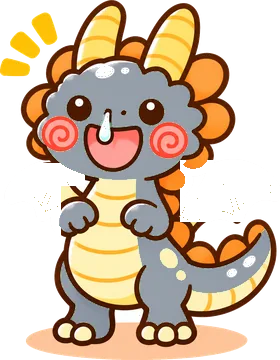
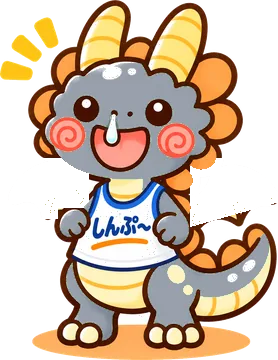
こどもドラゴンを新デザイン（タンクトップ）に (11/16-1)
Claude-Session: https://claude.ai/code/session_01YBiCLs4pTNeStadh86Q8Uo

diff --git a/index.html b/index.html
@@ -242,8 +242,8 @@ details.staff-d .staff-row { background: transparent; }
 .roam.me .tag { background: var(--accent); color: #fff; }
 @keyframes roambob { 0%,100% { transform: translate(-50%, -85%); } 50% { transform: translate(-50%, -92%); } }
 .kid-wing { transform-box: view-box; animation: kidFlap 1.3s ease-in-out infinite; }
-.kid-wl { transform-origin: 68px 97px; }
-.kid-wr { transform-origin: 125px 97px; animation-name: kidFlapR; }
+.kid-wl { transform-origin: 70px 103px; }
+.kid-wr { transform-origin: 130px 106px; animation-name: kidFlapR; }
 @keyframes kidFlap { 0%, 50%, 100% { transform: rotate(0deg); } 20% { transform: rotate(34deg); } 35% { transform: rotate(-12deg); } }
 @keyframes kidFlapR { 0%, 50%, 100% { transform: rotate(0deg); } 20% { transform: rotate(-34deg); } 35% { transform: rotate(12deg); } }
 @media (prefers-reduced-motion: reduce) { .kid-wing { animation: none; } }
@@ -1167,7 +1167,7 @@ body.has-live .toast { bottom: calc(132px + env(safe-area-inset-bottom, 0px)); }
       ${genreCard}
       <section class="card"><h2>わたしの設定</h2>
         ${authUser ? `<p class="sub">ログイン中のアカウント：<b style="overflow-wrap:anywhere">${esc(authUser.email || "")}</b></p>` : ""}
-        <p class="sub">バージョン：11/15-6</p>
+        <p class="sub">バージョン：11/16-1</p>
         <label class="check-line"><input type="checkbox" id="set-bgm" ${bgmOn() ? "checked" : ""}> 原っぱでBGMを流す</label>
         <label class="check-line"><input type="checkbox" id="set-sfx" ${sfxOn() ? "checked" : ""}> 100点達成・進化の効果音を鳴らす</label>
         <label class="field">名前<input type="text" id="set-name" value="${esc(S.name)}"></label>
